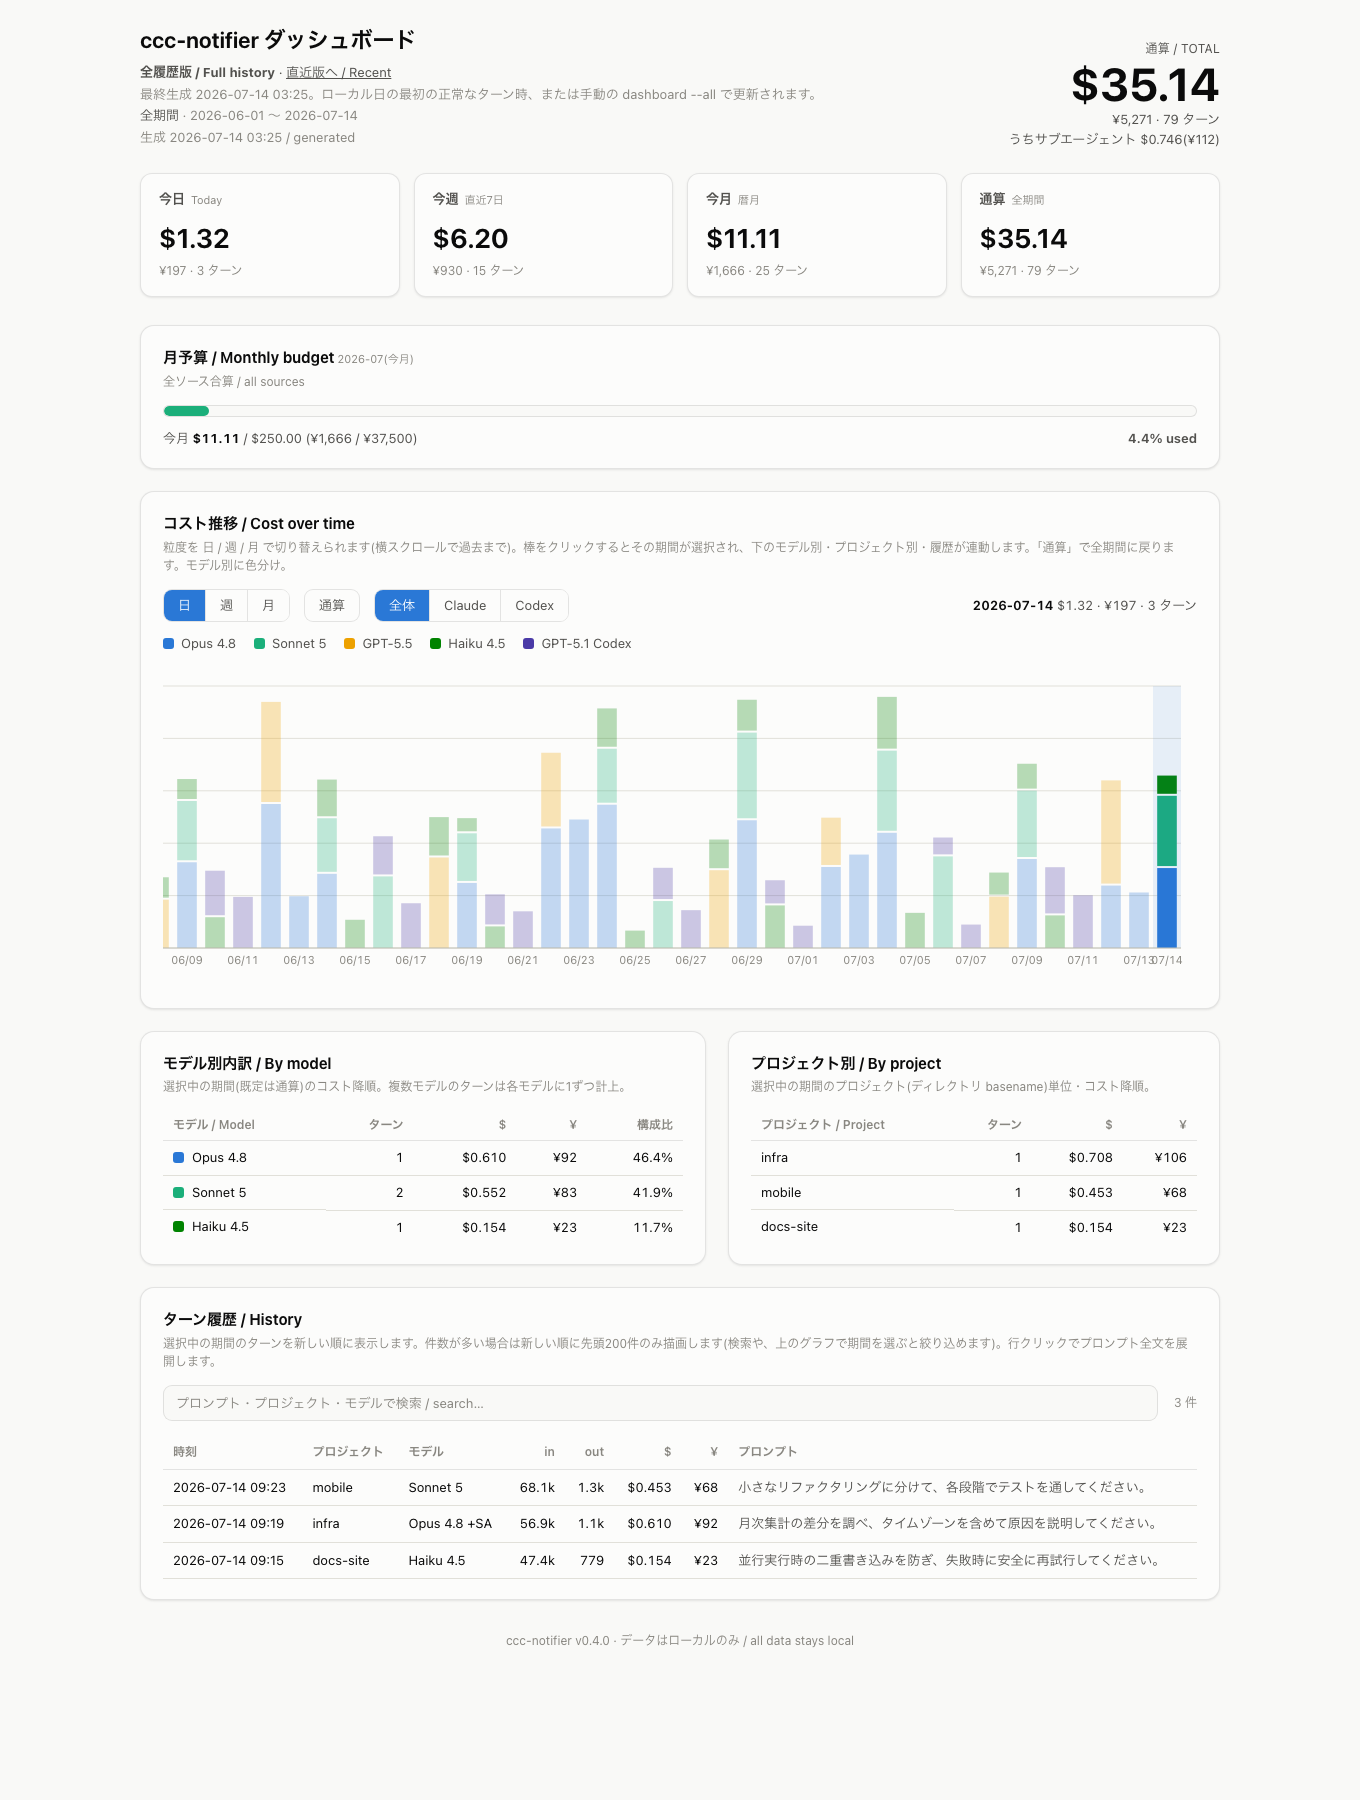
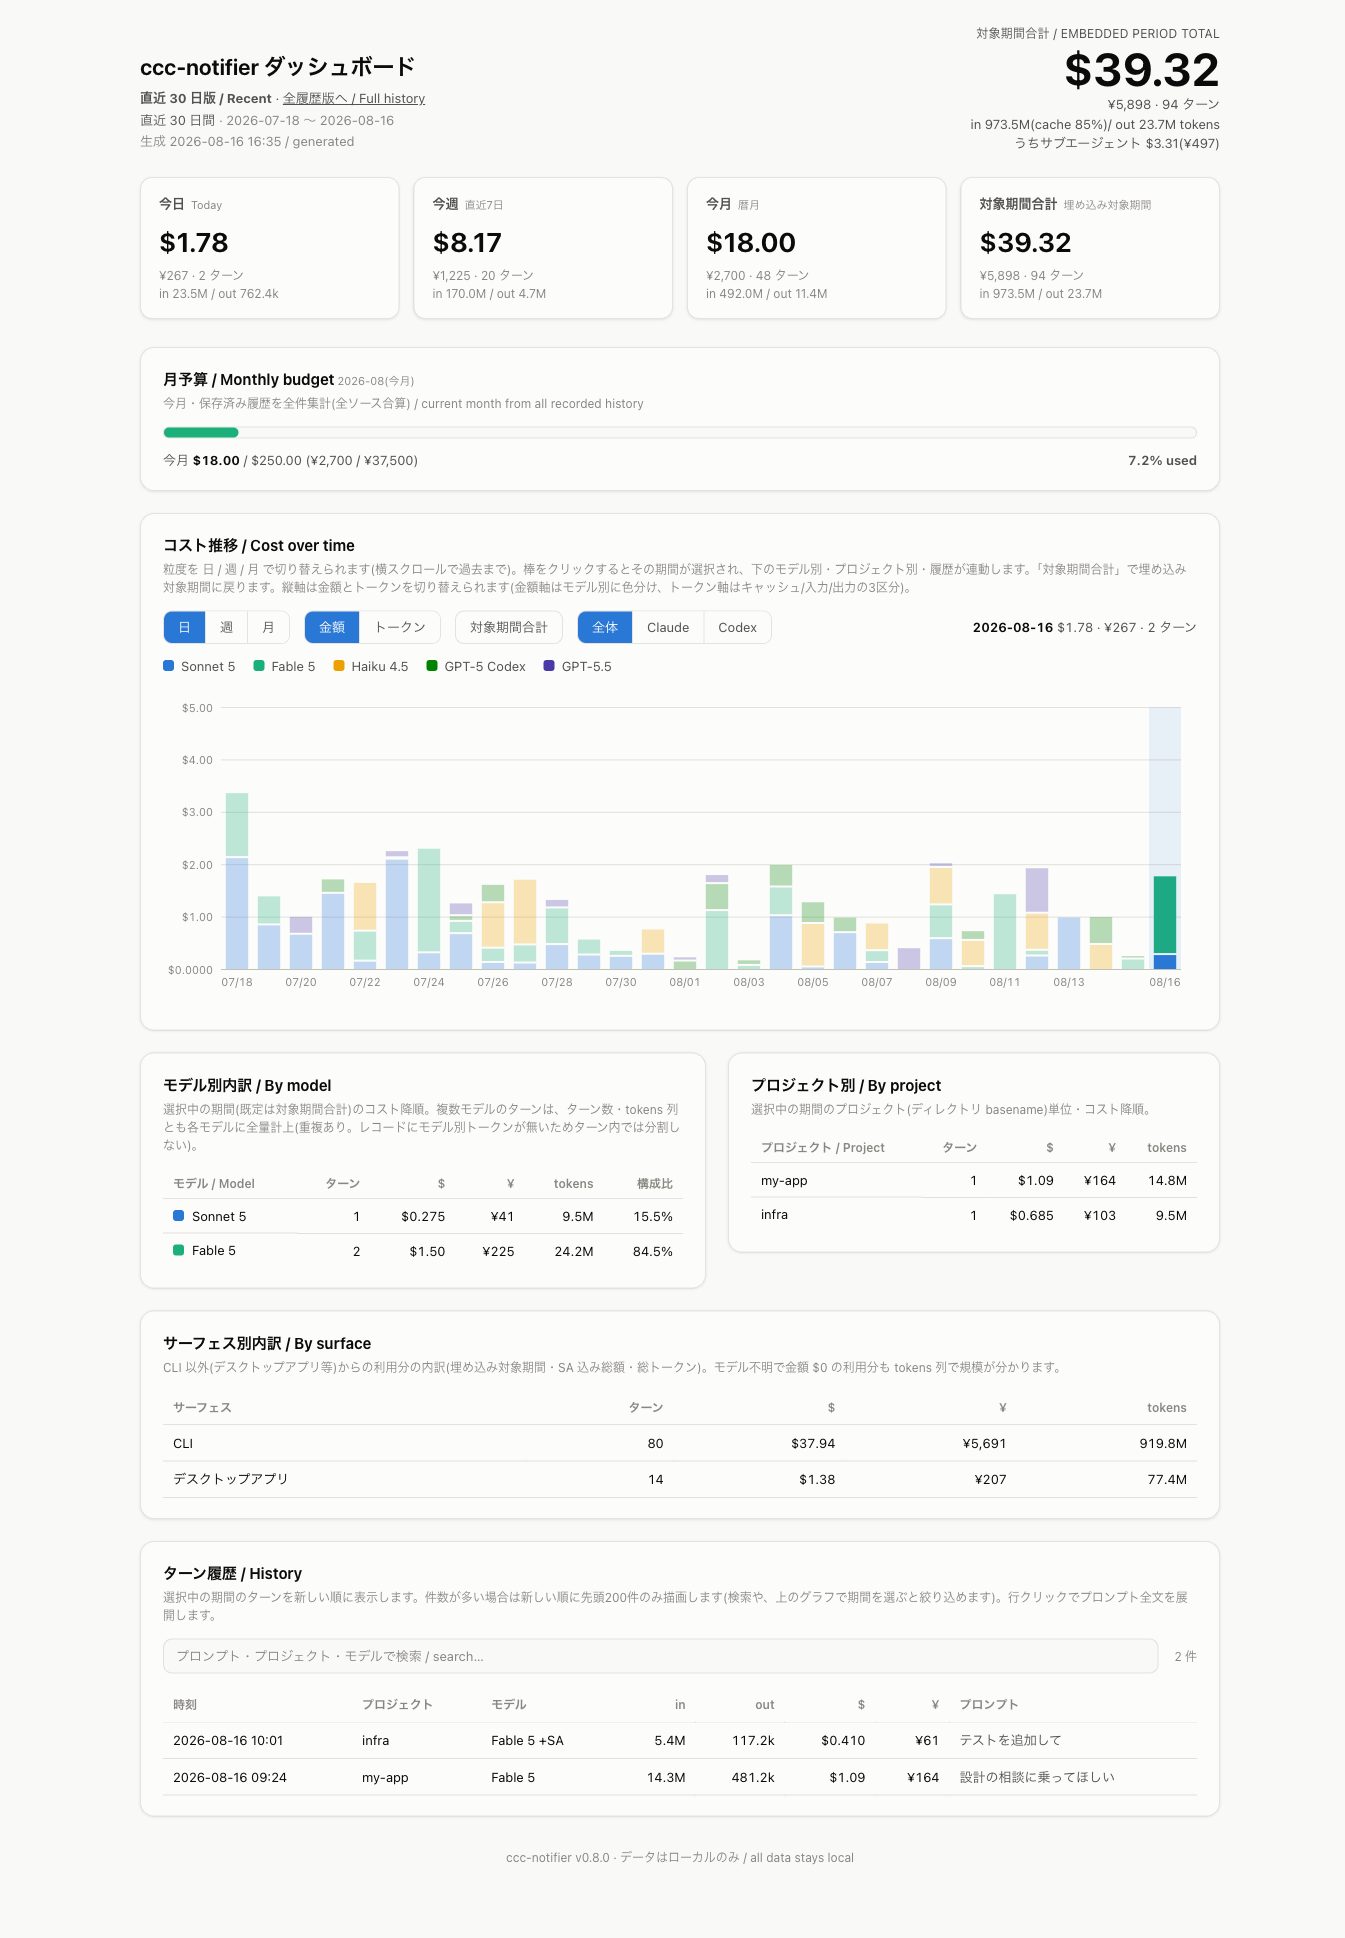
docs(dashboard): トークン表示に合わせて README・docs・キャプチャを更新する
- README の機能一覧とダッシュボード docs にトークン表示(ヒーロー/KPI・
  軸トグル・3テーブルの tokens 列・サーフェス別)の説明を追加
- キャプチャを合成デモデータで撮り直し(dashboard / dashboard-full /
  history-expand)。トークン軸のキャプチャ dashboard-tokens.png を新規追加
- チャートの注記を両軸対応の文言にする
- X軸の最終ラベルが間引きラベルと隣接して重なる場合、間引き側を落とす

diff --git a/src/dashboard.ts b/src/dashboard.ts
@@ -834,7 +834,8 @@ const APP_JS = `<script>
         var rect = svgEl('rect', { 'class':'seg '+segCls+(dim?' dim':''), x:f2(x), y:f2(yTop), width:f2(barW), height:f2(h) });
         svg.appendChild(rect);
       }
-      if(i % xStep === 0 || i === n-1){
+      // 最終ラベルは常に出す。間引きラベルは最終ラベルと隣接して重ならない位置だけに出す。
+      if(i === n-1 || (i % xStep === 0 && (n-1) - i >= xStep)){
         var xl = svgEl('text', { 'class':'tick-label', x:f2(cx), y:baseY+16, 'text-anchor':'middle' });
         xl.textContent = bucketLabel(b.key, GRAN);
         svg.appendChild(xl);
@@ -1611,7 +1612,7 @@ function renderDashboard(
   const chartSection =
     `<section class="card">` +
     `<h2 id="cccn-chart-title">コスト推移 / Cost over time</h2>` +
-    `<p class="note">粒度を 日 / 週 / 月 で切り替えられます(横スクロールで過去まで)。棒をクリックするとその期間が選択され、下のモデル別・プロジェクト別・履歴が連動します。「${esc(totalLabel)}」で${esc(totalSub)}に戻ります。モデル別に色分け。</p>` +
+    `<p class="note">粒度を 日 / 週 / 月 で切り替えられます(横スクロールで過去まで)。棒をクリックするとその期間が選択され、下のモデル別・プロジェクト別・履歴が連動します。「${esc(totalLabel)}」で${esc(totalSub)}に戻ります。縦軸は金額とトークンを切り替えられます(金額軸はモデル別に色分け、トークン軸はキャッシュ/入力/出力の3区分)。</p>` +
     `<div class="toolbar-row">` +
     `<div class="seg-toggle">` +
     `<button type="button" data-gran="day">日</button>` +

diff --git a/docs/dashboard.md b/docs/dashboard.md
@@ -6,7 +6,7 @@
 
 **期間の切り替え・過去の閲覧・連動**(すべてブラウザ側で完結。再取得なし):
 
-- 手動 `dashboard` の引数なしは、`dashboard.days`(既定30日)分を `report.html` に生成します。全履歴が必要なときだけ `dashboard --all` で `report-all.html` を更新します。どちらもコスト推移グラフを **日 / 週 / 月** に切り替えられます。
+- 手動 `dashboard` の引数なしは、`dashboard.days`(既定30日)分を `report.html` に生成します。全履歴が必要なときだけ `dashboard --all` で `report-all.html` を更新します。どちらもコスト推移グラフを **日 / 週 / 月** に切り替えられます。縦軸は **[金額] / [トークン]** も切り替えられ、トークン軸では棒が「キャッシュ(read+write)/ 入力(キャッシュ以外)/ 出力」の3区分積み上げになります(モデル別トークンは記録していないため、モデル別色分けは金額軸のみ)。
 - グラフの**棒をクリックするとその期間が選択**され、下の「モデル別内訳」「プロジェクト別」「ターン履歴」がその期間に**連動**します。もう一度クリックで解除、**「通算」ボタン**でいつでも全期間に戻せます。
 - 選択した粒度・期間・検索語・スクロール位置は自動リロードを跨いでも保持されます。
 - 全履歴版はプロンプトが多いとファイルが大きくなるため、自動更新をローカル日ごとの最初の正常なターンに限定しています。
@@ -27,6 +27,10 @@ npx ccc-notifier dashboard --no-refresh   # 自動リロードを無効化して
 
 ![ターン履歴(検索と全文展開)](images/history-expand.png)
 
+チャートの縦軸を「トークン」に切り替えると、キャッシュ / 入力 / 出力の3区分でトークン使用量の推移が見えます:
+
+![トークン推移(金額/トークン軸トグル)](images/dashboard-tokens.png)
+
 引数と出力の対応は次のとおりです。`--all` と `--days` は同時に指定できません。`--days` の欠落、0、負数、小数、非数値は終了コード1の引数エラーとなります。`--refresh` は0以上の整数だけを受け付け、`0` で自動リロードを無効化します。値の欠落、小数、負数、数値以外はエラーです。未定義のオプションや余分な位置引数も無視せずエラーにします。これらの引数エラーはHTML・日次状態を変更せず、ブラウザも開きません。
 
 | 指定 | 対象 | 出力 |
@@ -42,7 +46,15 @@ npx ccc-notifier dashboard --no-refresh   # 自動リロードを無効化して
 
 > **0.3系からの変更:** 以前は引数なしの `dashboard` が全履歴版を生成しましたが、現在は毎ターン更新される直近版を開きます。全履歴を手動更新する場合は `dashboard --all` を使用してください。履歴が増えるほど全履歴HTMLの生成・ブラウザ描画が重くなるため、日常操作を軽い直近版へ寄せ、全履歴版は必要時と1日1回に分離しました。なお、既存スクリプトとの互換性のため `--out X` 単独は引き続き全履歴です。
 
-サマリー・日別チャート・モデル別/プロジェクト別・合計はいずれも**サブエージェント分を含む総額**で表示します。サブエージェントを使ったターンがあると、ヒーローの合計の下に「うちサブエージェント $X(¥Y)」が表示され、モデル別内訳にはサブエージェントが使ったモデル(Sonnet 5 など)も並びます。ターン履歴では該当ターンのモデル欄に `+SA` が付き、行を展開すると「サブエージェント: $X(¥Y)· モデル名 · APIコール N」の内訳が出ます(サブエージェントの完了タイミングにより、その分が次ターン以降の日に計上されることがあります)。
+サマリー・日別チャート・モデル別/プロジェクト別・合計はいずれも**サブエージェント分を含む総額**で表示します。サブエージェントを使ったターンがあると、ヒーローの合計の下に「うちサブエージェント $X(¥Y)」が表示され、モデル別内訳にはサブエージェントが使ったモデル(Sonnet 5 など)も並びます。ターン履歴では該当ターンのモデル欄に `+SA` が付き、行を展開すると「サブエージェント: $X(¥Y)· モデル名 · APIコール N · 計 X tokens(cache Y%)」の内訳が出ます(サブエージェントの完了タイミングにより、その分が次ターン以降の日に計上されることがあります)。
+
+**トークン使用量の表示**: 金額が主役のまま、トークンを従属メトリクスとして各所に併記します。
+
+- ヒーローの合計の下と KPI カード(今日・今週・今月・通算)に、期間の `in X(cache Y%)/ out Z tokens` を表示します(金額と同じく main + sidechain + サブエージェント合算。ソースフィルタにも連動)
+- モデル別・プロジェクト別・サーフェス別の各テーブルに `tokens` 列を表示します。プロジェクト別・サーフェス別は正確な合算、モデル別はターン列と同じ参加カウント方式(登場ターンの全量を各モデルへ計上・重複あり)です
+- **単価不明で金額 $0 になる利用分**(Codex Desktop の一部や Codex サブエージェントの guardian 等)も、tokens 列で利用規模が分かります
+
+CLI 以外の利用(デスクトップアプリ等)があると「サーフェス別内訳」セクションが表示され、利用元(cli / desktop / vscode 等)ごとのターン数・金額・トークンが確認できます。
 
 ## 開くたびに最新に近いダッシュボード / Near-live dashboard
 

diff --git a/README.md b/README.md
@@ -19,7 +19,7 @@ in 1.2k(cache 40%) / out 480 · 📁 my-app · 今日: $1.85
 
 - Claude Codeの応答完了ごとに、USD・JPYの概算をOS通知またはSlackへ送ります
 - プロンプトと概算をローカルへ保存し、あとから検索・集計できます
-- 日・週・月の推移やモデル別・プロジェクト別の内訳をHTMLダッシュボードで確認できます
+- 日・週・月の推移やモデル別・プロジェクト別の内訳をHTMLダッシュボードで確認できます。金額とあわせて**トークン使用量**も表示し、推移チャートは金額/トークンの軸切替つきです
 - 月予算を設定し、今月の使用率を確認できます
 - 通知を一時停止しても、履歴の記録は続けられます
 - Codex CLIも任意で追加し、Claude Codeと同じダッシュボードで確認できます
